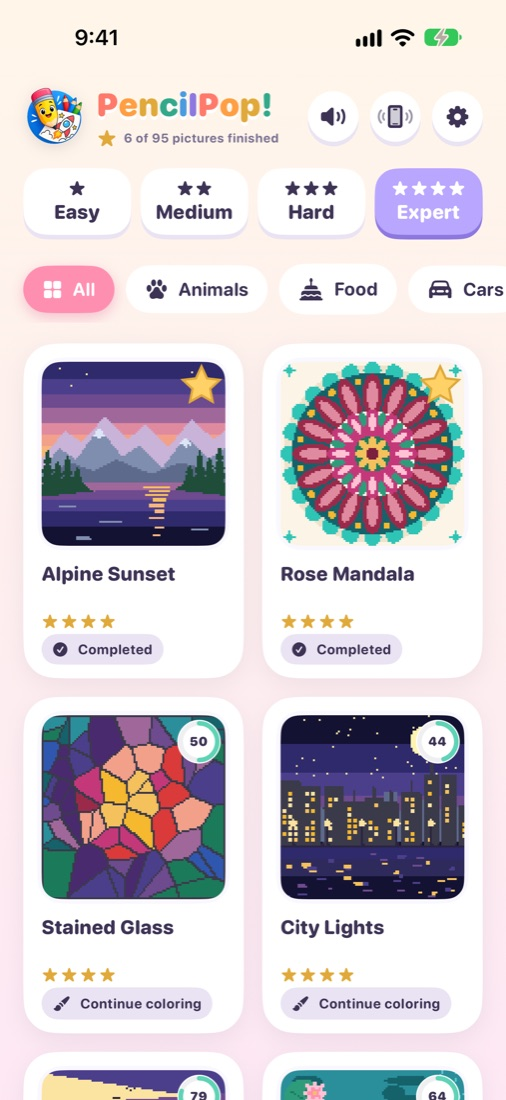
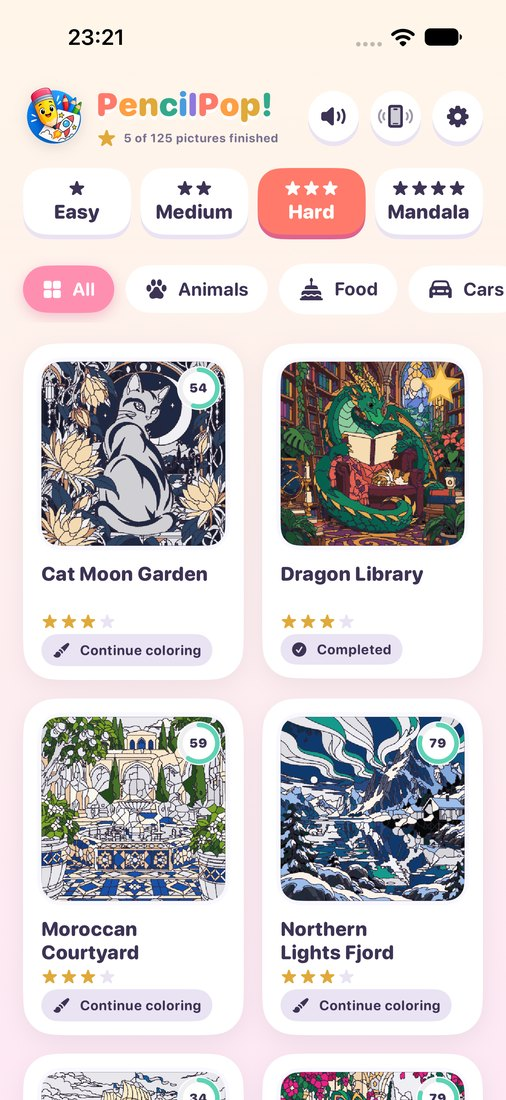
PencilPop pages: 125 pictures and mandalas, new screenshots
Replaces the pixel-art wording (95 pictures, beads, Expert) and screenshots
with the outlined region pictures and the Easy / Medium / Hard / Mandala levels.

diff --git a/pencilpop/index.html b/pencilpop/index.html
@@ -4,7 +4,7 @@
   <meta charset="utf-8">
   <meta name="viewport" content="width=device-width, initial-scale=1">
   <title>PencilPop: Color by Number</title>
-  <meta name="description" content="PencilPop: relaxing color-by-number pixel art for iPhone and iPad. Support and help.">
+  <meta name="description" content="PencilPop: relaxing color by number with 125 pictures and mandalas for iPhone and iPad. Support and help.">
   <link rel="icon" href="../assets/pencilpop-icon.png">
   <link rel="stylesheet" href="../assets/site.css">
 </head>
@@ -29,23 +29,23 @@
         </div>
       </div>
       <h1>Tap, pop, and <span class="gradient-text">watch it come alive.</span></h1>
-      <p>Match the numbers, fill the squares, and turn a grid into a painting, one relaxing tap at a time.</p>
+      <p>Match the numbers, fill the shapes, and watch a picture come to life, one relaxing tap at a time.</p>
     </section>
 
     <section>
       <div class="shots">
-        <img src="../assets/pencilpop-1-gallery.jpg" alt="Gallery of Expert paintings">
-        <img src="../assets/pencilpop-3-beads.jpg" alt="Zoomed in, every square is a glossy round bead">
-        <img src="../assets/pencilpop-6-celebration.jpg" alt="A finished Alpine Sunset painting">
+        <img src="../assets/pencilpop-1-gallery.jpg" alt="Gallery of Hard paintings">
+        <img src="../assets/pencilpop-3-mandalas.jpg" alt="The Mandala level">
+        <img src="../assets/pencilpop-6-celebration.jpg" alt="A finished Dragon Library painting">
       </div>
     </section>
 
     <section>
       <div class="features">
-        <div class="feature"><h3>Easy to Expert</h3><p>95 pictures on four levels, from bold 16×16 sketches to detailed 96×96 paintings.</p></div>
-        <div class="feature"><h3>Glossy beads</h3><p>Zoom in and every square turns into a round, shiny bead that pops when you fill it.</p></div>
-        <div class="feature"><h3>Paint in one stroke</h3><p>Touch and hold, then slide to paint a whole row. The Magic Wand fills an entire area at once.</p></div>
-        <div class="feature"><h3>Find the last squares</h3><p>One tap on Find zooms right to the squares you missed.</p></div>
+        <div class="feature"><h3>125 pictures</h3><p>Four levels: Easy, Medium, Hard and Mandala, from bold, simple scenes to paintings with a thousand shapes.</p></div>
+        <div class="feature"><h3>Clean, outlined art</h3><p>Smooth coloring-book pictures: every shape has a crisp outline and its own number.</p></div>
+        <div class="feature"><h3>Paint in one stroke</h3><p>Touch and hold, then slide to paint many shapes in one stroke. The Magic Wand fills an entire area at once.</p></div>
+        <div class="feature"><h3>Find the last shapes</h3><p>One tap on Find zooms right to the shapes you missed.</p></div>
         <div class="feature"><h3>Timelapse videos</h3><p>Watch your picture paint itself again, then share it as a video.</p></div>
         <div class="feature"><h3>For the whole family</h3><p>Quick pictures for a short break, long calming paintings for a quiet evening.</p></div>
         <div class="feature"><h3>Works offline</h3><p>No account and no sign-in. Your progress stays on your device.</p></div>
@@ -57,7 +57,7 @@
       <h2>Support</h2>
       <details>
         <summary>How do Magic Wands work?</summary>
-        <p>Tap the wand, then tap an area: every connected square with that number fills at once. You start with 3; watch a short video for 3 more. With “Remove Ads”, wands are unlimited.</p>
+        <p>Tap the wand, then tap an area: every connected shape with that number fills at once. You start with 3; watch a short video for 3 more. With “Remove Ads”, wands are unlimited.</p>
       </details>
       <details>
         <summary>How do I unlock more pictures?</summary>

diff --git a/index.html b/index.html
@@ -37,17 +37,17 @@
               <span>Color by Number · iPhone &amp; iPad</span>
             </div>
           </div>
-          <p>Relaxing pixel-art coloring for the whole family. 95 pictures across four levels, from quick
-            16×16 sketches to detailed 96×96 paintings, with glossy beads, a Magic Wand and timelapse videos.</p>
+          <p>Relaxing color by number for the whole family. 125 pictures on four levels, from simple
+            scenes to detailed paintings and calming mandalas, with a Magic Wand and timelapse videos.</p>
           <div class="btn-row">
             <a class="btn" href="pencilpop/">Learn more</a>
             <span class="pill">Coming soon to the App Store</span>
           </div>
         </div>
         <div class="shots">
-          <img src="assets/pencilpop-1-gallery.jpg" alt="PencilPop gallery of Expert paintings">
-          <img src="assets/pencilpop-2-coloring.jpg" alt="Coloring the Lighthouse Cove painting">
-          <img src="assets/pencilpop-6-celebration.jpg" alt="A finished Alpine Sunset painting">
+          <img src="assets/pencilpop-1-gallery.jpg" alt="PencilPop gallery of Hard paintings">
+          <img src="assets/pencilpop-2-coloring.jpg" alt="Coloring the Stained Glass Owl">
+          <img src="assets/pencilpop-6-celebration.jpg" alt="A finished Dragon Library painting">
         </div>
       </article>
     </section>
